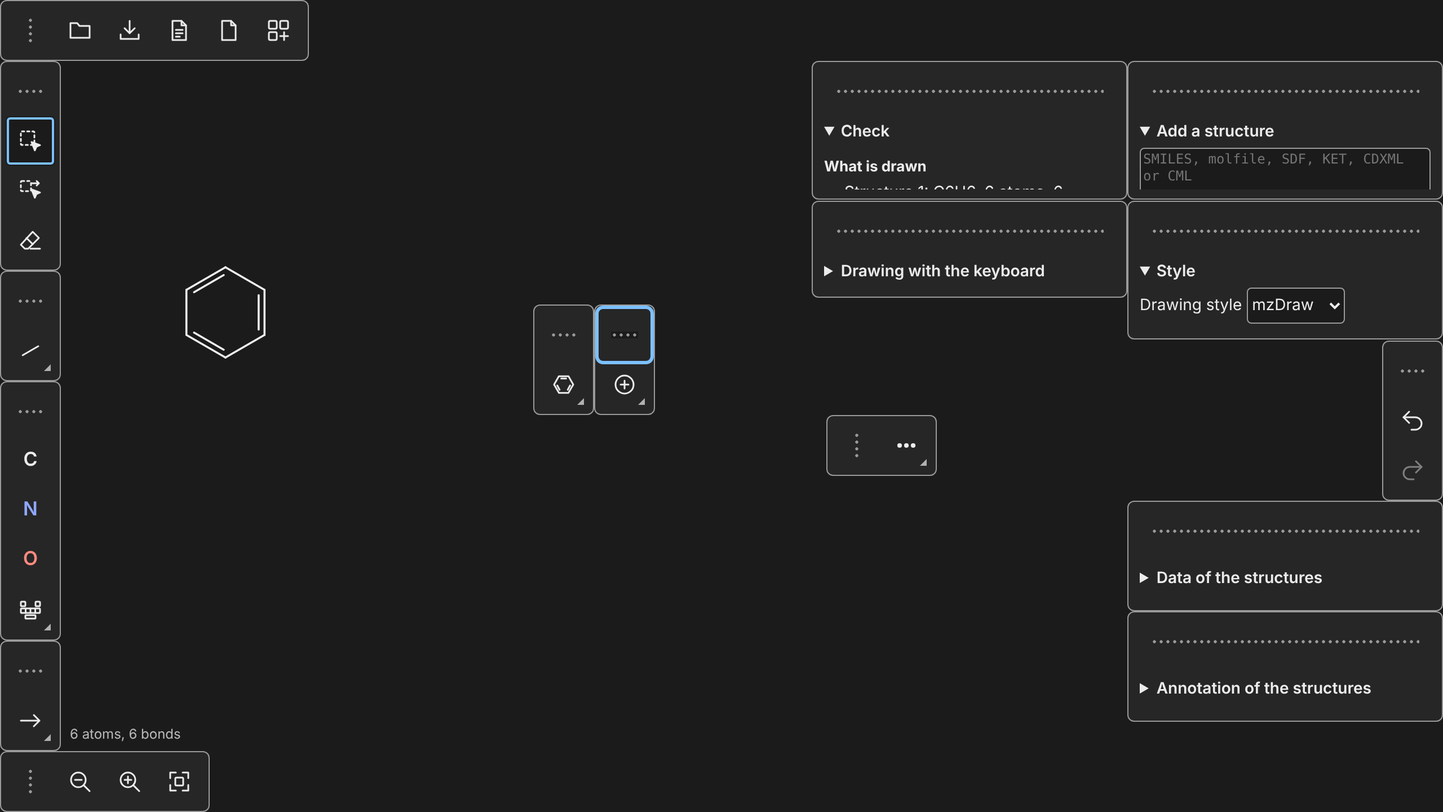
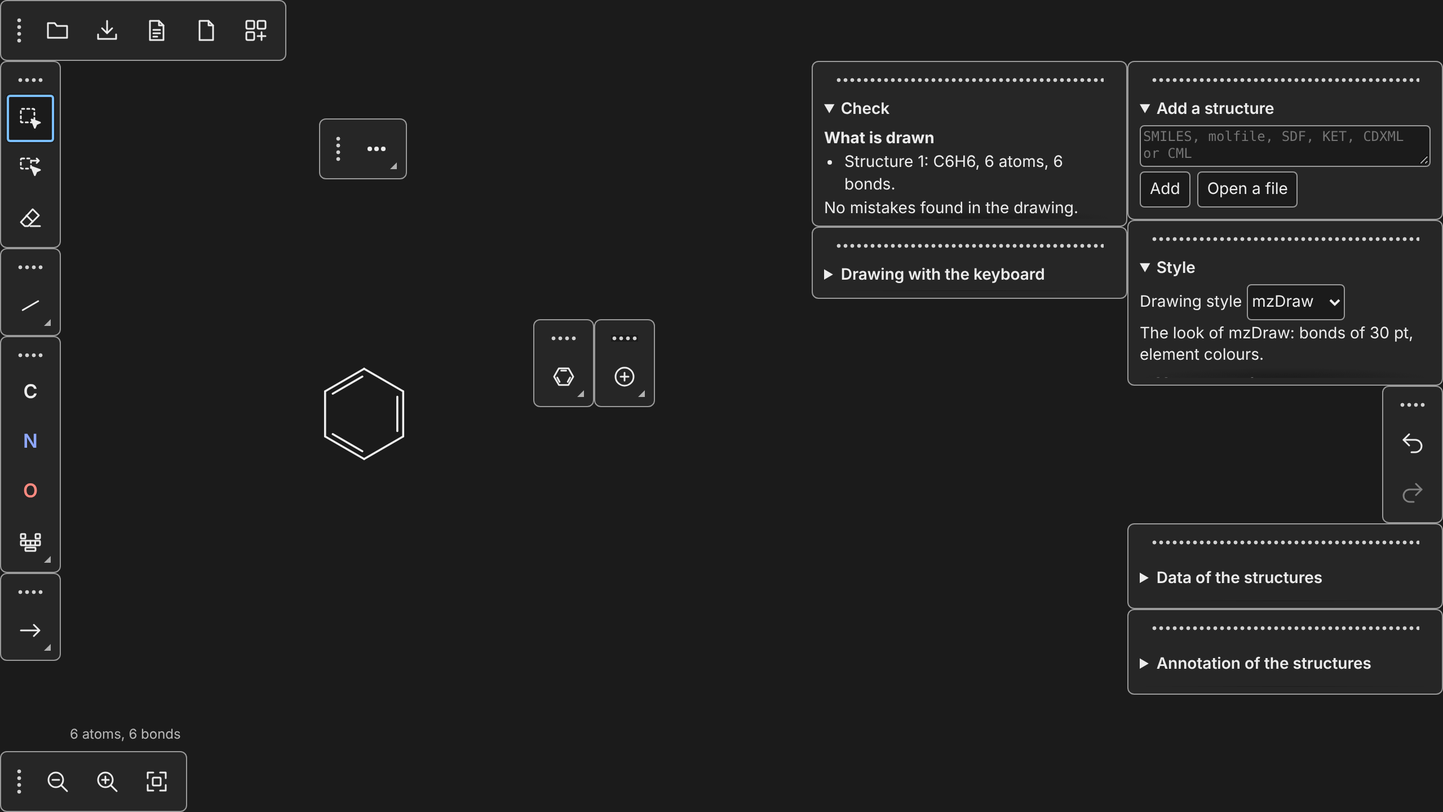
Palettes review fixes: hint, drag threshold and can_turn in Rust; handle keys; backslash from a palette; reload e2e; visual fixes
The module now answers the held palette, the dock hint edge and which palettes turn; the page always
forwards release and cancel and the module applies the 4 px drag threshold. The handle names its keys
(aria-description), the backslash key works from a palette button, the menu boxes are 44 px on touch
and drawn with the page's colours, the grip dots have their own token, hover only where there is a
hover, tap highlight off, scroll shadows on side palettes; the e2e checks a reload restores the layout
and the shots are re-taken at deviceScaleFactor 2 (desktop without touch).

Claude-Session: https://claude.ai/code/session_01Ly8ApnR6CMghdRhEmK6FkG

diff --git a/web/mzdraw.css b/web/mzdraw.css
@@ -1,10 +1,10 @@
 /* The page: colours only from these variables (the canvas reads them too). */
-:root { --fg: #1a1a1a; --bg: #ffffff; --panel: #f3f4f6; --line: #767676; --accent: #005a9c; --d2-ink: #111111; --d2-select: #9cc7ee; --d2-hover: #d5d9de; --d2-warn: #c62828; --d2-preview: #5b7fa6; --d2-n: #1f3fbf; --d2-o: #c02020; --d2-s: #8a6d00; --d2-x: #1f7a1f; --d2-p: #b05a00; --d2-focus: #005a9c; }
-@media (prefers-color-scheme: dark) { :root { --fg: #ececec; --bg: #1b1b1b; --panel: #262626; --line: #9a9a9a; --accent: #7cc0ff; --d2-ink: #f0f0f0; --d2-select: #2f5f8a; --d2-hover: #454545; --d2-warn: #ff8a80; --d2-preview: #9db8d6; --d2-n: #8fa8ff; --d2-o: #ff8a80; --d2-s: #e6c14a; --d2-x: #7fd37f; --d2-p: #ffb066; --d2-focus: #7cc0ff; } }
+:root { --fg: #1a1a1a; --bg: #ffffff; --panel: #f3f4f6; --line: #767676; --grip: #4d4d4d; --accent: #005a9c; --d2-ink: #111111; --d2-select: #9cc7ee; --d2-hover: #d5d9de; --d2-warn: #c62828; --d2-preview: #5b7fa6; --d2-n: #1f3fbf; --d2-o: #c02020; --d2-s: #8a6d00; --d2-x: #1f7a1f; --d2-p: #b05a00; --d2-focus: #005a9c; }
+@media (prefers-color-scheme: dark) { :root { --fg: #ececec; --bg: #1b1b1b; --panel: #262626; --line: #9a9a9a; --grip: #d0d0d0; --accent: #7cc0ff; --d2-ink: #f0f0f0; --d2-select: #2f5f8a; --d2-hover: #454545; --d2-warn: #ff8a80; --d2-preview: #9db8d6; --d2-n: #8fa8ff; --d2-o: #ff8a80; --d2-s: #e6c14a; --d2-x: #7fd37f; --d2-p: #ffb066; --d2-focus: #7cc0ff; } }
 html, body { margin: 0; height: 100%; background: var(--bg); color: var(--fg); font: 14px/1.4 system-ui, sans-serif; }
 body { overflow: hidden; }
 h2 { font-size: 13px; margin: 8px 0 4px; }
-button { min-height: 32px; min-width: 32px; padding: 2px 8px; color: var(--fg); background: var(--bg); border: 1px solid var(--line); border-radius: 4px; cursor: pointer; font: inherit; }
+button { -webkit-tap-highlight-color: transparent; min-height: 32px; min-width: 32px; padding: 2px 8px; color: var(--fg); background: var(--bg); border: 1px solid var(--line); border-radius: 4px; cursor: pointer; font: inherit; }
 button[aria-pressed="true"] { background: var(--accent); color: var(--bg); border-color: var(--accent); font-weight: 600; }
 .field { display: flex; align-items: center; gap: 4px; }
 .field select { min-height: 32px; color: var(--fg); background: var(--bg); border: 1px solid var(--line); border-radius: 4px; font: inherit; }
@@ -40,14 +40,13 @@ button:focus-visible, canvas:focus-visible, textarea:focus-visible { outline: 3p
 .pal[data-orient="v"] .items { flex-direction: column; }
 .pal.moving { z-index: 30; box-shadow: 0 6px 18px rgb(0 0 0 / .25); }
 .pal .items button { display: inline-flex; align-items: center; justify-content: center; width: 44px; height: 44px; min-width: 0; padding: 0; border-color: transparent; background: transparent; }
-.pal .items button:hover:not(:disabled) { background: var(--bg); }
+@media (hover: hover) { .pal .items button:hover:not(:disabled), .fly button:hover:not(:disabled), .grip:hover { background-color: var(--bg); } }
 .pal .txt { position: absolute; width: 1px; height: 1px; overflow: hidden; clip-path: inset(50%); }
 .pal .head { position: relative; }
 .pal .head::after { content: ""; position: absolute; right: 3px; bottom: 3px; border: 3px solid transparent; border-right-color: currentColor; border-bottom-color: currentColor; opacity: .7; }
-.grip { flex: none; box-sizing: border-box; min-width: 0; min-height: 0; border: 0; border-radius: 3px; background: radial-gradient(circle, var(--line) 1.2px, transparent 1.5px) 0 0 / 6px 6px; background-clip: content-box; background-origin: content-box; cursor: grab; touch-action: none; }
+.grip { flex: none; box-sizing: border-box; min-width: 0; min-height: 0; border: 0; border-radius: 3px; background: radial-gradient(circle, var(--grip) 1.5px, transparent 1.9px) 0 0 / 6px 6px; background-clip: content-box; background-origin: content-box; cursor: grab; touch-action: none; }
 .pal[data-orient="v"] > .grip { height: 24px; width: 100%; padding: 9px 10px; }
 .pal[data-orient="h"] > .grip { width: 24px; align-self: stretch; padding: 10px 9px; }
-.grip:hover { background-color: var(--bg); }
 .pal .items button[aria-pressed="true"], .fly button[aria-pressed="true"] { background: var(--bg); color: var(--fg); box-shadow: inset 0 0 0 2px var(--accent); }
 .grip:active { cursor: grabbing; }
 .ico { width: 24px; height: 24px; flex: none; }
@@ -57,14 +56,19 @@ button:focus-visible, canvas:focus-visible, textarea:focus-visible { outline: 3p
 /* the side palettes: a panel of the page each, collapsed to its title */
 /* three open side palettes share the height of the page with three closed ones and the row at the top, so the column does not wrap into the canvas;
    what does not fit scrolls inside its palette */
-.pal.side { flex-direction: column; width: 280px; max-height: max(120px, calc((100vh - 300px) / 3)); padding: 4px 10px 8px; }
-.pal.side > details { overflow: auto; min-height: 0; }
+.pal.side { flex-direction: column; width: 280px; max-height: max(120px, calc((100vh - 280px) / 3)); padding: 4px 10px 6px; }
+/* what does not fit scrolls, and says so: a shadow at the edge that has more behind it */
+.pal.side > details { overflow: auto; min-height: 0; background-color: var(--panel);
+  background-image: linear-gradient(var(--panel) 40%, transparent), linear-gradient(transparent, var(--panel) 60%), radial-gradient(farthest-side at 50% 0, rgb(0 0 0 / .3), transparent), radial-gradient(farthest-side at 50% 100%, rgb(0 0 0 / .3), transparent);
+  background-position: 0 0, 0 100%, 0 0, 0 100%; background-repeat: no-repeat; background-size: 100% 24px, 100% 24px, 100% 9px, 100% 9px; background-attachment: local, local, scroll, scroll; }
 .pal.side > details > summary { padding: 4px 0; }
+.pal.side p, .pal.side h2, .pal.side ul { margin: 2px 0; }
+.pal.side h2 { font-size: 1em; }
+.pal.side textarea { display: block; }
 /* flyouts: beside the button that opens them, on the side away from the palette's edge */
 #d2-flys .fly { position: fixed; z-index: 40; display: flex; flex-direction: column; gap: 2px; min-width: 200px; max-height: 80vh; overflow: auto; padding: 6px; background: var(--panel); border: 1px solid var(--line); border-radius: 6px; box-shadow: 0 6px 20px rgb(0 0 0 / .2); }
 #d2-flys .fly[hidden], #d2-fly-saveas[hidden] { display: none; }
 .fly button[data-cmd], .fly button[data-opens] { display: flex; align-items: center; justify-content: flex-start; gap: 8px; width: 100%; min-height: 40px; border-color: transparent; background: transparent; }
-.fly button:hover:not(:disabled) { background: var(--bg); }
 .fly.grid { display: grid; grid-template-columns: repeat(5, 44px); min-width: 0; }
 .fly.grid button[data-cmd] { width: 44px; height: 44px; justify-content: center; padding: 0; }
 .fly.grid .txt { display: none; }
@@ -75,7 +79,12 @@ button:focus-visible, canvas:focus-visible, textarea:focus-visible { outline: 3p
 #d2-ex-note:empty { display: none; }
 .menu { display: grid; grid-template-columns: 1fr repeat(3, auto); gap: 2px 10px; align-items: center; }
 .menu .mh { font-size: 12px; opacity: .8; }
-.menu input { width: 20px; height: 20px; margin: 2px auto; }
+.menu input { appearance: none; box-sizing: border-box; display: grid; place-content: center; width: 24px; height: 24px; margin: 2px auto; background: var(--bg); border: 2px solid var(--fg); border-radius: 4px; cursor: pointer; }
+.menu input:checked { background: var(--accent); border-color: var(--accent); }
+.menu input:checked::after { content: ""; width: 5px; height: 11px; margin-top: -2px; border: solid var(--bg); border-width: 0 3px 3px 0; transform: rotate(45deg); }
+.menu input:disabled { cursor: default; border-style: dashed; border-color: var(--line); background: var(--panel); }
+.menu input:checked:disabled { background: var(--line); border-color: var(--line); }
+.menu input:focus-visible { outline: 3px solid var(--d2-focus); outline-offset: 2px; }
 #d2-dock-hint { position: fixed; z-index: 25; background: var(--accent); opacity: .45; pointer-events: none; }
 #d2-dock-hint[data-edge="left"] { left: 0; top: 0; bottom: 0; width: 6px; } #d2-dock-hint[data-edge="right"] { right: 0; top: 0; bottom: 0; width: 6px; }
 #d2-dock-hint[data-edge="top"] { left: 0; right: 0; top: 0; height: 6px; } #d2-dock-hint[data-edge="bottom"] { left: 0; right: 0; bottom: 0; height: 6px; }
@@ -92,7 +101,7 @@ details ul { margin: 4px 0; padding-left: 18px; } summary { cursor: pointer; fon
 p { margin: 4px 0; }
 .sr { position: absolute; width: 1px; height: 1px; overflow: hidden; clip-path: inset(50%); }
 /* a finger or a pen: handles of 44 px */
-@media (pointer: coarse), (any-pointer: coarse) { button { min-height: 44px; min-width: 44px; } .pal[data-orient="v"] > .grip { height: 44px; padding: 19px 10px; } .pal[data-orient="h"] > .grip { width: 44px; padding: 10px 19px; } .menu input { width: 28px; height: 28px; }
+@media (pointer: coarse), (any-pointer: coarse) { button { min-height: 44px; min-width: 44px; } .pal[data-orient="v"] > .grip { height: 44px; padding: 19px 10px; } .pal[data-orient="h"] > .grip { width: 44px; padding: 10px 19px; } .menu input { width: 44px; height: 44px; } #d2-flys .fly { max-height: calc(100vh - 8px); }
   /* larger handles and buttons take more of the column: its open palettes get less */
   .pal.side { max-height: max(120px, calc((100vh - 350px) / 3)); } }
 @media (prefers-reduced-motion: reduce) { * { transition: none !important; animation: none !important; } }

diff --git a/web/palettes.js b/web/palettes.js
@@ -34,7 +34,7 @@ const pals = {};
 /** the flyouts by name (a palette id, `saveas`, `palettes`): the button that opens it, the flyout, the palette it belongs to @type {Record<string, {btn: HTMLElement, fly: HTMLElement, pal: string}>} */
 const flys = {};
 /** the last layout the module gave @type {any} */ let last = null;
-/** the palette held by the pointer @type {{id: string, moved: boolean} | null} */ let held = null;
+/** the palette whose handle the pointer is on (the module decides whether that is a click or a drag) @type {string | null} */ let held = null;
 const $ = (/** @type {string} */ id) => /** @type {HTMLElement} */ (document.getElementById(id));
 
 /** the name of a command in the i18n keys @param {string} c */
@@ -113,21 +113,20 @@ export function open(name, show, focus = false) {
 function grip(id) {
   const g = document.createElement("button"), t = ctx.t, name = t(`draw2.pal.${id}`);
   g.type = "button"; g.className = "grip"; g.dataset.testid = P + "grip-" + id;
-  g.title = t("draw2.pal.grip.title", { name }); g.setAttribute("aria-label", g.title);
+  g.title = t("draw2.pal.grip.title", { name }); g.setAttribute("aria-label", t("draw2.pal.grip.name", { name }));
+  g.setAttribute("aria-description", t("draw2.pal.grip.keys"));
   g.addEventListener("pointerdown", e => {
     if (e.button) return;
     e.preventDefault();
     try { g.setPointerCapture(e.pointerId); } catch { /* a pointer already gone cannot be captured */ }
-    held = { id, moved: false }; g.focus({ preventScroll: true });
+    held = id; g.focus({ preventScroll: true });
     ed().palette("press", id, e.clientX, e.clientY, false);
   });
-  g.addEventListener("pointermove", e => { if (held?.id !== id) return; held.moved = true; after(ed().palette("drag", id, e.clientX, e.clientY, false), false); });
-  g.addEventListener("pointerup", e => {
-    if (held?.id !== id) return;
-    const moved = held.moved; held = null;
-    after(moved ? ed().palette("release", id, e.clientX, e.clientY, false) : ed().palette("cancel", id, 0, 0, false), moved);
-  });
-  g.addEventListener("pointercancel", () => { if (held?.id === id) { held = null; after(ed().palette("cancel", id, 0, 0, false), false); } });
+  // every move, release and cancel goes to the module: it applies the drag threshold (a click with a little jitter moves
+  // nothing) and answers whether the layout changed
+  g.addEventListener("pointermove", e => { if (held === id) after(ed().palette("drag", id, e.clientX, e.clientY, false), false); });
+  g.addEventListener("pointerup", e => { if (held === id) { held = null; after(ed().palette("release", id, e.clientX, e.clientY, false), true); } });
+  g.addEventListener("pointercancel", () => { if (held === id) { held = null; after(ed().palette("cancel", id, 0, 0, false), true); } });
   g.addEventListener("keydown", e => {
     const f = ed().palette("key:" + e.key, id, 0, 0, e.shiftKey);
     if (f) { e.preventDefault(); after(f, true); g.focus({ preventScroll: true }); ctx.say(t("draw2.pal.moved", { name })); }
@@ -160,6 +159,8 @@ function palette(id) {
   pals[id] = p;
   const fly = flyout(id, head, id);
   if (spec.grid) fly.classList.add("grid");
+  // a click on the head of a collapsed tool palette runs the kind last used (what the head shows); another click, or any other
+  // palette, opens the flyout. This is the page's reading of its own face, not a decision about the drawing: the tool is the module's.
   head.addEventListener("click", e => {
     const now = JSON.parse(ed().state()).tool;
     if (p.collapsed && spec.tool && now !== p.last && fly.hidden) { ctx.run(p.last); if (e.detail) ctx.focusCanvas(); }
@@ -228,11 +229,10 @@ export function layout() {
   a = JSON.parse(ed().palettes(w, h, JSON.stringify(measure())));
   last = a;
   for (const r of a.palettes) { shape(r); const el = pals[r.id]?.el; if (el) { el.style.left = r.x + "px"; el.style.top = r.y + "px"; } }
-  // the edge a held palette is flush with: it docks there when it is let go
-  const p = held && a.palettes.find((/** @type {any} */ r) => r.id === held?.id), hint = $(P + "dock-hint");
-  const edge = !p || p.dock !== "float" ? "" : p.x <= 0 ? "left" : p.y <= 0 ? "top" : p.x + p.w >= w ? "right" : p.y + p.h >= h ? "bottom" : "";
-  hint.hidden = !edge; hint.dataset.edge = edge;
-  for (const q of Object.values(pals)) q.el.classList.toggle("moving", q.id === held?.id);
+  // the module says which palette is being dragged and the edge it docks on if it is let go now; the page paints both
+  const hint = $(P + "dock-hint");
+  hint.hidden = !a.hint_edge; hint.dataset.edge = a.hint_edge;
+  for (const q of Object.values(pals)) q.el.classList.toggle("moving", q.id === a.held);
   $(P + "show-all").hidden = !a.all_hidden;
   menuState(a);
   for (const [n, f] of Object.entries(flys)) if (!f.fly.hidden) open(n, true);
@@ -293,7 +293,7 @@ function menuState(a) {
     const r = a.palettes.find((/** @type {any} */ x) => x.id === c.dataset.pal);
     if (!r) continue;
     c.checked = c.dataset.act === "hidden" ? !r.hidden : c.dataset.act === "collapsed" ? r.collapsed : r.horizontal;
-    c.disabled = c.dataset.act === "orient" && r.dock !== "float";
+    c.disabled = c.dataset.act === "orient" && !r.can_turn;
   }
 }
 

diff --git a/web/index.html b/web/index.html
@@ -23,7 +23,7 @@
 <!-- the palettes: the tools and commands are built by palettes.js; the six side palettes are here. Where each one is, is decided by the module. -->
 <div id="d2-palettes">
   <div class="pal side" data-pal="structure"><details open><summary data-i18n="draw2.import">Add a structure</summary>
-    <textarea id="d2-text" rows="3" spellcheck="false" autocomplete="off" aria-label="SMILES, molfile, SDF, KET, CDXML or CML" data-i18n-aria-label="draw2.import.field" placeholder="SMILES, molfile, SDF, KET, CDXML or CML" data-i18n-placeholder="draw2.import.field"></textarea>
+    <textarea id="d2-text" rows="2" spellcheck="false" autocomplete="off" aria-label="SMILES, molfile, SDF, KET, CDXML or CML" data-i18n-aria-label="draw2.import.field" placeholder="SMILES, molfile, SDF, KET, CDXML or CML" data-i18n-placeholder="draw2.import.field"></textarea>
       <div class="row"><button id="d2-add" type="button" data-i18n="draw2.import.add" title="Add this structure to the drawing" data-i18n-title="draw2.import.add.title">Add</button>
         <button id="d2-open" type="button" data-i18n="draw2.import.open" title="Add the structure of a file to the drawing" data-i18n-title="draw2.import.open.title">Open a file</button>
 </div>

diff --git a/web/mzdraw.js b/web/mzdraw.js
@@ -331,6 +331,14 @@ function events() {
     if (after(f ? f | CHANGED : 0) & HANDLED) e.preventDefault();
     if (f & (ASK_LABEL | ASK_TEXT)) { open(f & ASK_LABEL ? "charges" : "objects", true); const l = /** @type {HTMLInputElement} */ ($(f & ASK_LABEL ? "d2-label" : "d2-text-tool")); l.focus(); l.select(); }
   });
+  // the key that hides every palette also works from a palette button or a handle (the canvas forwards its own keys above); the
+  // module decides what the key does, a text field keeps its own keys
+  document.addEventListener("keydown", e => {
+    const n = e.target;
+    if (e.key !== "\\" || e.defaultPrevented || n === cv || e.ctrlKey || e.metaKey || e.altKey) return;
+    if (n instanceof HTMLElement && (n.isContentEditable || ["INPUT", "TEXTAREA", "SELECT"].includes(n.tagName))) return;
+    if (after(ed.key(e.key, mods(e), e.timeStamp)) & HANDLED) e.preventDefault();
+  });
   addEventListener("resize", () => layout());
   matchMedia("(prefers-color-scheme: dark)").addEventListener("change", paint);
 }

diff --git a/web/lang/mzdraw.js b/web/lang/mzdraw.js
@@ -359,6 +359,8 @@ I18N.add("en", {
   "draw2.pal.view.head": "Zoom and fit",
   "draw2.pal.view.more": "View",
   "draw2.pal.grip.title": "Move the {name} palette: drag it, or use the arrow keys; Enter docks or floats it, Escape puts it back, a double click collapses it",
+  "draw2.pal.grip.name": "Move the {name} palette",
+  "draw2.pal.grip.keys": "Drag it with a pointer, or use the arrow keys (8 pixels, 32 with Shift). Enter docks it on the nearest edge or floats it where it is; Escape puts it back; a double click collapses it. The backslash key hides every palette.",
   "draw2.pal.moved": "{name} palette moved.",
   "draw2.fly.tools": "Select and erase",
   "draw2.fly.bonds": "Bonds",

diff --git a/crates/mzdraw/src/palettes.rs b/crates/mzdraw/src/palettes.rs
@@ -227,7 +227,16 @@ struct Grab {
     start: Palette,
     /// Held by a pointer (not a keyboard move): a key does not take it over.
     pointer: bool,
+    /// Where the pointer landed, in page pixels.
+    from: (f64, f64),
+    /// The pointer has gone farther than `DRAG_START` from where it landed (a keyboard move counts as moved): until then the
+    /// palette stays where it is, and a release is a click, not a move.
+    moved: bool,
 }
+
+/// How far in pixels a pointer goes from where it landed on a handle before it drags the palette; a click with a little
+/// jitter is a click.
+pub const DRAG_START: f64 = 4.0;
 
 /// The layout: a preset (`None`: chosen by the width of the viewport) and the user's changes, by palette.
 #[derive(Clone, Debug)]
@@ -613,6 +622,8 @@ impl Layout {
             dy: y - r.y,
             start: p,
             pointer: true,
+            from: (x, y),
+            moved: false,
         });
         true
     }
@@ -622,6 +633,15 @@ impl Layout {
         let (Some((x, y)), Some(g)) = (point(x, y), self.grab.clone()) else {
             return false;
         };
+        if !g.moved {
+            // under the threshold nothing moves
+            if (x - g.from.0).hypot(y - g.from.1) < DRAG_START {
+                return false;
+            }
+            if let Some(held) = self.grab.as_mut() {
+                held.moved = true;
+            }
+        }
         let Some(mut p) = self.palette(&g.id) else {
             return false;
         };
@@ -664,7 +684,27 @@ impl Layout {
     /// The pointer lets go: a palette within the snap distance of an edge docks there, in the place along the edge that its
     /// position gives; else it stays where it floats.
     pub fn release(&mut self, x: f64, y: f64) -> bool {
+        // a release that follows no drag is a click: nothing moved, nothing changes
+        if self.grab.as_ref().is_some_and(|g| g.pointer && !g.moved) && point(x, y).is_some() {
+            let far = self
+                .grab
+                .as_ref()
+                .is_some_and(|g| (x - g.from.0).hypot(y - g.from.1) >= DRAG_START);
+            if !far {
+                self.grab = None;
+                return false;
+            }
+        }
         // a release at a point that is not a number ends the grab where the palette was
+        if point(x, y).is_none() {
+            return match self.grab.take() {
+                Some(g) => {
+                    self.put(g.start);
+                    true
+                }
+                None => false,
+            };
+        }
         if !self.drag(x, y) {
             return self.cancel();
         }
@@ -676,8 +716,10 @@ impl Layout {
     }
 
     /// Puts the held palette back where it was before the grab.
+    /// False when nothing was moved (a click on the handle).
     pub fn cancel(&mut self) -> bool {
         match self.grab.take() {
+            Some(g) if g.pointer && !g.moved => false,
             Some(g) => {
                 self.put(g.start);
                 true
@@ -808,6 +850,8 @@ impl Layout {
                 dy: 0.0,
                 start: p.clone(),
                 pointer: false,
+                from: (0.0, 0.0),
+                moved: true,
             });
         }
         // a keyboard step is smaller than the snap distance: it is only kept inside the viewport
@@ -841,6 +885,11 @@ impl Layout {
     /// "dock", "horizontal", "collapsed", "hidden"}]}`.
     pub fn arranged_json(&mut self, w: f64, h: f64, sizes: &[(String, f64, f64)]) -> String {
         let (rects, area) = self.arrange(w, h, sizes);
+        // the palette a pointer is dragging, and the edge it docks on if let go now (the one `release` uses)
+        let held = (self.grab.clone())
+            .filter(|g| g.pointer && g.moved)
+            .map(|g| g.id);
+        let hint = held.clone().and_then(|id| self.touching(&id));
         let bool = |b: bool| if b { "true" } else { "false" };
         let list: Vec<String> = rects
             .iter()
@@ -854,6 +903,8 @@ impl Layout {
                 e.raw("horizontal", bool(r.horizontal));
                 e.raw("collapsed", bool(r.collapsed));
                 e.raw("hidden", bool(r.hidden));
+                // only a floating palette turns between a row and a column
+                e.raw("can_turn", bool(r.dock == Dock::Float));
                 e.0 + "}"
             })
             .collect();
@@ -862,6 +913,8 @@ impl Layout {
         o.raw("all_hidden", bool(self.all_hidden));
         let area: Vec<String> = area.iter().map(|v| Value::from(*v).to_string()).collect();
         o.raw("area", &format!("[{}]", area.join(",")));
+        o.text("held", held.as_deref().unwrap_or(""));
+        o.text("hint_edge", hint.map_or("", |d| d.name()));
         o.raw("palettes", &format!("[{}]", list.join(",")));
         o.0 + "}"
     }

diff --git a/crates/mzdraw/tests/palettes.rs b/crates/mzdraw/tests/palettes.rs
@@ -495,3 +495,80 @@ fn docking_on_a_full_column_keeps_its_columns_apart_and_numbers_hidden_palettes_
         }
     }
 }
+
+#[test]
+fn a_click_with_a_little_jitter_moves_nothing_and_a_drag_past_the_threshold_does() {
+    let mut l = Layout::default();
+    l.arrange(1280.0, 720.0, &sizes());
+    let before = l.palettes();
+    // the pointer lands, jitters by a pixel or two, lets go: a click, the layout is as it was and nothing says it changed
+    assert!(l.press("edit", 400.0, 10.0));
+    assert!(!l.drag(401.0, 11.0));
+    assert_eq!(l.palettes(), before);
+    assert!(!l.release(402.0, 10.0));
+    assert_eq!(l.palettes(), before);
+    // a cancel after a click is no change either
+    assert!(l.press("edit", 400.0, 10.0));
+    assert!(!l.cancel());
+    assert_eq!(l.palettes(), before);
+    // past the threshold the palette follows the pointer, and the release keeps it where it is let go
+    assert!(l.press("edit", 400.0, 10.0));
+    assert!(l.drag(400.0 + mzdraw::palettes::DRAG_START + 1.0, 200.0));
+    assert!(l.release(500.0, 300.0));
+    let edit = l.palettes().into_iter().find(|p| p.id == "edit").unwrap();
+    assert_eq!(edit.dock, Dock::Float);
+    // once the drag has begun, coming back near the start still moves it (the threshold is for the start only)
+    assert!(l.press("edit", 500.0, 300.0));
+    assert!(l.drag(510.0, 300.0));
+    assert!(l.drag(500.0, 300.0));
+    assert!(l.release(500.0, 300.0));
+}
+
+#[test]
+fn the_module_says_the_held_palette_the_edge_it_docks_on_and_which_palettes_turn() {
+    let mut l = Layout::default();
+    let json = |l: &mut Layout| -> serde_json::Value {
+        serde_json::from_str(&l.arranged_json(1280.0, 720.0, &sizes())).unwrap()
+    };
+    let first = json(&mut l);
+    assert_eq!(
+        (first["held"].as_str(), first["hint_edge"].as_str()),
+        (Some(""), Some(""))
+    );
+    // only a floating palette turns
+    let can = |v: &serde_json::Value, id: &str| {
+        v["palettes"]
+            .as_array()
+            .unwrap()
+            .iter()
+            .find(|p| p["id"] == id)
+            .unwrap()["can_turn"]
+            .as_bool()
+            .unwrap()
+    };
+    assert!(!can(&first, "tools"));
+    // held in the middle: held says which, no edge; flush with the bottom edge: the edge it docks on when let go
+    let (r, _) = l.arrange(1280.0, 720.0, &sizes());
+    let edit = rect(&r, "edit");
+    assert!(l.press("edit", edit.x + 10.0, edit.y + 10.0));
+    assert!(l.drag(640.0, 360.0));
+    let mid = json(&mut l);
+    assert_eq!(
+        (mid["held"].as_str(), mid["hint_edge"].as_str()),
+        (Some("edit"), Some(""))
+    );
+    assert!(can(&mid, "edit"));
+    assert!(l.drag(640.0, 719.0));
+    let low = json(&mut l);
+    assert_eq!(low["hint_edge"].as_str(), Some("bottom"));
+    assert!(l.release(640.0, 719.0));
+    let after = json(&mut l);
+    assert_eq!(
+        (after["held"].as_str(), after["hint_edge"].as_str()),
+        (Some(""), Some(""))
+    );
+    assert_eq!(
+        rect(&l.arrange(1280.0, 720.0, &sizes()).0, "edit").dock,
+        Dock::Bottom
+    );
+}

diff --git a/docs/built/palettes-page.md b/docs/built/palettes-page.md
@@ -1,3 +1,5 @@
 # Palettes on the page, built (PR 2 of the UI work; screenshots at deviceScaleFactor 2 in `docs/shots/palettes-*.png`)
 
 Every group of actions is a palette (`web/palettes.js`): tools, bonds, rings, atoms, charges and labels, reaction and text, file, history, edit, view, and the six side palettes (add a structure, style, data, annotation, check, keyboard help). The page builds them, measures them, sends the pointer (mouse, touch, pen) and key events of their handles to `palette(...)` and paints what `palettes(...)` answers: where each one is, its edge, row or column, collapsed or hidden. A collapsed palette shows its head, which shows the kind last used; the rest is in a flyout reached by click or by the arrow key across the palette. Handles are 24 px for a mouse and 44 px for touch and pen; a double click collapses a palette. The Palettes menu of the File palette shows, hides, collapses and turns each palette, resets the layout and hides them all (`\` on the canvas does the same; a Palettes button brings them back). The layout is kept with the settings file in the browser (OPFS). Save writes `export.default` (SVG unless set); Save as lists the 12 formats. The canvas takes the free area. The ids and storage names the scripts write are in `web/names.js`, the icons (original) in `web/icons.js`. The tools palette holds Select, Move here and Erase; the drawing checks `std/1` list is a section of the Check palette; a side palette is capped at a share of the page height (less on a touch screen, whose handles and buttons are larger) so the right column does not wrap into the canvas, and what does not fit scrolls inside it. The `\` key returns the flag `PALETTES` (128), which the page consumes: it lays the palettes out again and keeps the settings. Covered by two e2e steps (desktop: four edges, floating, snapped, keyboard, menu, `\`, reset, built keys only in tooltips; tablet: 44 px handles, drags by finger and pen, menu by tapping).
+
+Review round: what is decided is in Rust, the page paints it. `palettes(...)` answers the palette being dragged (`held`), the edge it docks on if let go now (`hint_edge`, the one `release` uses) and, per palette, whether it can turn (`can_turn`: only a floating one). The drag threshold is the module's (`DRAG_START`, 4 px): the page always forwards press, move, release and cancel, and a click with a little jitter moves nothing and stores nothing. The handle is named by `aria-label` and says its keys in `aria-description` (arrows, Shift, Enter, Escape, double click, the backslash key). The backslash key also works with the focus on a palette button or handle (not in a text field). The menu boxes are drawn with the page's colours, 44 px on a touch screen; the grip dots have their own token (`--grip`); hover styles apply only where there is a hover. A side palette that cannot show all of its content scrolls and shows a shadow at the edge with more behind it. The e2e checks a reload restores the layout, the jitter click, the handle's description and the key from a handle; the desktop shots are taken with a mouse and keyboard only (`docs/shots/palettes-*.png`, tablet: `palettes-tablet-side.png` without the menu and `palettes-tablet-menu.png` with it).
